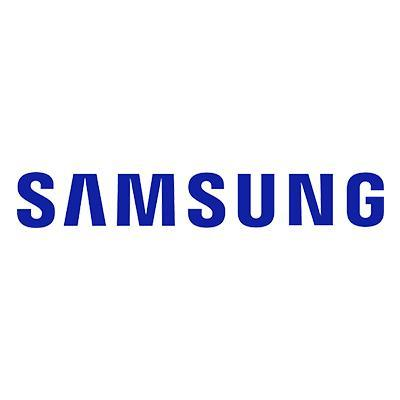
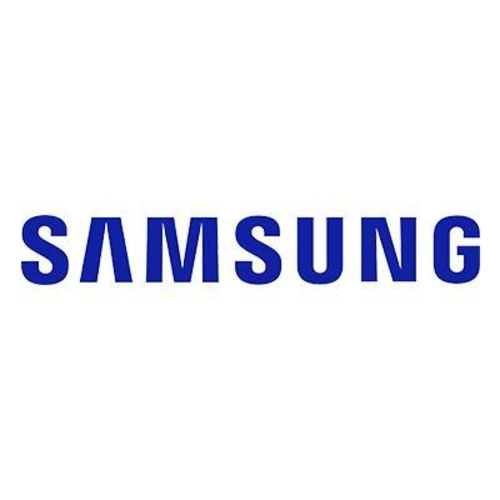
assets added

diff --git a/index.html b/index.html
@@ -82,19 +82,19 @@
   <div class="cart">
     <h2 class="cart-title">Your Cart</h2>
     <!-- Content -->
-      <div class="cart-content">
-        
-      </div>
-      <!-- total price estimator start -->
-      <div class="total">
-        <div class="total-title">Total</div>
-        <div class="total-price">৳0</div>
-        </div>
-        <!-- Buy Button -->
-        <button type="button" style="background-color: #18BDBB; color: white;" class="btn btn-buy">Buy Now</button>
-        <!-- Cart Close -->
-        <i class="fa-solid fa-xmark py-2" id="close-cart"></i>
-      </div>
+    <div class="cart-content">
+
+    </div>
+    <!-- total price estimator start -->
+    <div class="total">
+      <div class="total-title">Total</div>
+      <div class="total-price">৳0</div>
+    </div>
+    <!-- Buy Button -->
+    <button type="button" style="background-color: #18BDBB; color: white;" class="btn btn-buy">Buy Now</button>
+    <!-- Cart Close -->
+    <i class="fa-solid fa-xmark py-2" id="close-cart"></i>
+  </div>
   </div>
   <!-- Shop start -->
 
@@ -116,7 +116,7 @@
       <div class="card" style="width: 18rem;">
         <img class="card-img-top" src="assets/watch1.jpg" alt="Card image cap">
         <div class="card-body">
-            <p class="product-title">Colmi p28 plus Smart Watch</p>
+          <p class="product-title">Colmi p28 plus Smart Watch</p>
           <div class="price-bd">
             <span class="price">৳ 620<span>
                 <i class="fa-solid fa-cart-plus"></i>
@@ -138,7 +138,7 @@
       <div class="card" style="width: 18rem;">
         <img class="card-img-top" src="assets/p4.jpg" alt="Card image cap">
         <div class="card-body">
-            <p class="product-title">Xiaomi Airbud Black Wireless Headphone</p>
+          <p class="product-title">Xiaomi Airbud Black Wireless Headphone</p>
           <div class="price-bd">
             <span class="price">৳ 2200<span>
                 <i class="fa-solid fa-cart-plus"></i>
@@ -207,7 +207,7 @@
   <div class="container">
     <h2 class="text-center font-weight-bold">Our Partners</h2>
     <section class="customer-logos slider">
-      <div class="slide"><img src="assets/samsung-logo-text-png-1.png" alt="logo"></div>
+      <div class="slide"><img src="assets\l1.jpg" alt="logo"></div>
       <div class="slide"><img src="images/google.png" alt="logo"></div>
       <div class="slide"><img src="images/instagram.png" alt="logo"></div>
       <div class="slide"><img src="images/nike.png" alt="logo"></div>
@@ -217,37 +217,257 @@
     </section>
   </div>
 
-  <script src="index.js"></script>
-  <script src="https://cdn.jsdelivr.net/npm/bootstrap@5.1.3/dist/js/bootstrap.bundle.min.js"
-    integrity="sha384-ka7Sk0Gln4gmtz2MlQnikT1wXgYsOg+OMhuP+IlRH9sENBO0LRn5q+8nbTov4+1p" crossorigin="anonymous">
-  </script>
 
 
 
-  <script>
-    $(document).ready(function () {
-      $('.customer-logos').slick({
-        slidesToShow: 6,
-        slidesToScroll: 1,
-        autoplay: true,
-        autoplaySpeed: 1500,
-        arrows: false,
-        dots: false,
-        pauseOnHover: false,
-        responsive: [{
-          breakpoint: 768,
-          setting: {
-            slidesToShow: 4
-          }
-        }, {
-          breakpoint: 520,
-          setting: {
-            slidesToShow: 3
-          }
-        }]
+  <!------About Section------->
+
+  <section id="about">
+    <div class="container">
+      <h1>About Us</h1>
+      <div class="row">
+        <div class="col-md-6">
+          <div class="about-content">
+            X is one of the top eCommerce sites in Bangladesh that most popular and oldest, selling electronics among
+            other things.
+            According to popularity, this is Bangladesh's most popular online shopping site at the moment.
+            Gadgets and automobiles may all be found on this massive online shopping mall.
+            Numerous well-known names in the industry have worked with us in the past. In order to meet their needs, X
+            has designed a custom website.
+            X Group operates e-commerce platforms as well as logistical services.
+          </div>
+          <button type="button" class="btn">Read More>>
+
+          </button>
+
+        </div>
+        <div class="col-md-6 skills-bar">
+          <p>Delivery Rate</p>
+          <div class="progress">
+            <div class="progress-bar" style="width:85%;">85%</div>
+          </div>
+
+          <p>Customer Growth</p>
+          <div class="progress">
+            <div class="progress-bar" style="width:70%;">70%</div>
+          </div>
+
+          <p>Happy Employee</p>
+          <div class="progress">
+            <div class="progress-bar" style="width:80%;">90%</div>
+          </div>
+
+        </div>
+      </div>
+
+    </div>
+
+    <!-----Team------->
+
+    <section id="team">
+
+      <div class="container">
+        <h1>Our Team</h1>
+        <div class="row">
+          <div class="col-md-3 profile-pic text-center">
+            <div class="img-box">
+              <img src="assets/shakil.png" class="img-responsive">
+              <ul>
+                <a href="https://www.facebook.com/shakiil.hossen">
+                  <li><i class="fa fa-facebook"></i></li>
+                </a>
+                <a href="https://twitter.com/login">
+                  <li><i class="fa fa-twitter"></i></li>
+                </a>
+                <a href="https://www.linkedin.com/home">
+                  <li><i class="fa fa-linkedin"></i></li>
+                </a>
+              </ul>
+            </div>
+            <h2>Md Shakil Hossen</h2>
+            <h3>Founder/CEO</h3>
+
+          </div>
+
+          <div class="col-md-3 profile-pic text-center">
+            <div class="img-box">
+              <img src="assets/ishan.png" class="img-responsive">
+              <ul>
+                <a href="https://www.facebook.com/ishan.ishan.5648">
+                  <li><i class="fa fa-facebook"></i></li>
+                </a>
+                <a href="https://twitter.com/login">
+                  <li><i class="fa fa-twitter"></i></li>
+                </a>
+                <a href="https://www.linkedin.com/home">
+                  <li><i class="fa fa-linkedin"></i></li>
+                </a>
+              </ul>
+            </div>
+            <h2>Shafiqul Islam Uzzal </h2>
+            <h3>Founder/CEO</h3>
+
+          </div>
+
+          <div class="col-md-3 profile-pic text-center">
+            <div class="img-box">
+              <img src="assets/shimul.png" class="img-responsive">
+              <ul>
+                <a href="https://www.facebook.com/profile.php?id=100010644520575">
+                  <li><i class="fa fa-facebook"></i></li>
+                </a>
+                <a href="https://twitter.com/login">
+                  <li><i class="fa fa-twitter"></i></li>
+                </a>
+                <a href="https://www.linkedin.com/home">
+                  <li><i class="fa fa-linkedin"></i></li>
+                </a>
+              </ul>
+            </div>
+            <h2>Nazmul Islam Shimul</h2>
+            <h3>General Manager</h3>
+
+          </div>
+
+          <div class="col-md-3 profile-pic text-center">
+            <div class="img-box">
+              <img src="assets/afridi.png" class="img-responsive">
+              <ul>
+                <a href="https://www.facebook.com/profile.php?id=100058734735298">
+                  <li><i class="fa fa-facebook"></i></li>
+                </a>
+                <a href="https://twitter.com/login">
+                  <li><i class="fa fa-twitter"></i></li>
+                </a>
+                <a href="https://www.linkedin.com/home">
+                  <li><i class="fa fa-linkedin"></i></li>
+                </a>
+              </ul>
+            </div>
+            <h2>Shahed Afridi</h2>
+            <h3>Project Manager</h3>
+
+          </div>
+        </div>
+      </div>
+
+    </section>
+
+    <!------Services Section------->
+
+    <section id="services">
+
+      <div class="container">
+        <h1>Our Services</h1>
+        <div class="row services">
+          <div class="col-md-4 text-center">
+            <div class="icon">
+              <i class="fa fa-phone"></i>
+            </div>
+            <h3> 24/7 Support</h3>
+            <p>on order related queries</p>
+          </div>
+
+          <div class="col-md-4 text-center">
+            <div class="icon">
+              <i class="fa fa-shopping-cart"></i>
+            </div>
+            <h3> Return within 30 days</h3>
+            <p>of receiving your order</p>
+          </div>
+
+          <div class="col-md-4 text-center">
+            <div class="icon">
+              <i class="fa fa-truck"></i>
+            </div>
+            <h3>Get free delivery</h3>
+            <p>on orders above 70 tk inside Dhaka</p>
+            <p>on orders above 120 tk outside Dhaka</p>
+          </div>
+        </div>
+      </div>
+
+    </section>
+
+
+
+    <!------Contact------------>
+
+    <section id="contact">
+
+      <div class="container">
+        <h1>Get In Touch</h1>
+        <div class="row">
+          <div class="col-md-6">
+            <form class="contact-form">
+              <div class="form-group">
+                <input type="text" class="form-control my-2" placeholder="Your Name..">
+              </div>
+              <div class="form-group">
+                <input type="number" class="form-control my-2" placeholder="Phone no.">
+              </div>
+              <div class="form-group">
+                <input type="email" class="form-control my-2" placeholder="Email..">
+              </div>
+              <div class="form-group">
+                <textarea class="form-control my-2" rows="4" placeholder="Message.."></textarea>
+              </div>
+
+              <button type="submit" class="btn">Submit</button>
+            </form>
+          </div>
+          <div class="col-md-6 contact-info">
+            <div class="follow"><b><i class="fa fa-map-marker"></i> </b>Dhanmondi, Dhaka, Bangladesh</div>
+            <div class="follow"><b><i class="fa fa-mobile"></i> </b>+8801755780537</div>
+            <div class="follow"><b><i class="fa fa-envelope"></i> </b>gadgetbd@gmail.com</div>
+
+
+            <div class="follow"><label><b>Get Social </b></label>
+              <a href="https://www.facebook.com/"><i class="fa fa-facebook"></i></a>
+              <a href="https://www.youtube.com/"><i class="fa fa-youtube-play"></i></a>
+              <a href="https://twitter.com/login"><i class="fa fa-twitter"></i></a>
+              <a href="https://myaccount.google.com/"><i class="fa fa-google-plus"></i></a>
+
+            </div>
+          </div>
+
+        </div>
+
+      </div>
+
+    </section>
+
+    <script src="index.js"></script>
+    <script src="https://cdn.jsdelivr.net/npm/bootstrap@5.1.3/dist/js/bootstrap.bundle.min.js"
+      integrity="sha384-ka7Sk0Gln4gmtz2MlQnikT1wXgYsOg+OMhuP+IlRH9sENBO0LRn5q+8nbTov4+1p" crossorigin="anonymous">
+    </script>
+
+
+
+    <script>
+      $(document).ready(function () {
+        $('.customer-logos').slick({
+          slidesToShow: 6,
+          slidesToScroll: 1,
+          autoplay: true,
+          autoplaySpeed: 1500,
+          arrows: false,
+          dots: false,
+          pauseOnHover: false,
+          responsive: [{
+            breakpoint: 768,
+            setting: {
+              slidesToShow: 4
+            }
+          }, {
+            breakpoint: 520,
+            setting: {
+              slidesToShow: 3
+            }
+          }]
+        });
       });
-    });
-  </script>
+    </script>
 </body>
 
 </html>
